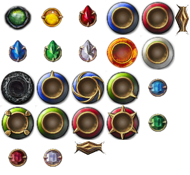
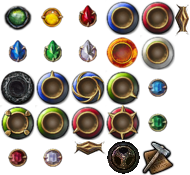
add table of content

Changed region(s): [[0.5526, 0.8, 0.9211, 1.0]]

diff --git a/test.html b/test.html
@@ -106,6 +106,7 @@ function selectLang(lang) {
 </script>
 <!-- Style -->
 <link rel="stylesheet" href="style.css">
+<link rel="icon" type="image/x-icon" href="favicon.ico">
 </head>
 <!-- Body -->
 <body class="dark">
@@ -159,79 +160,86 @@ function selectLang(lang) {
 </div>
 <!-- Display Page -->
 <div class="page" id="page_display">
-<h1 id="notes_header"></h1>
-<div class="section">
-	<div class="filling" id="notesDiv"></div>
-</div>
-<h1 id="gem_header"></h1>
-<div class="section">
-	<div style="width: 100%">
-		<h2 id="group_subheader"></h2>
-		<div id="setupDiv"></div>
+	<h1 id="notes_header"></h1>
+	<div class="section">
+		<div class="filling" id="notesDiv"></div>
 	</div>
-	<div style="max-width: 40%">
-		<h2 id="configuration_subheader"></h2>
-		<div id="gemconfDiv"></div>
-		<h2 id="roadmap_subheader"></h2>
-		<div id="roadmapDiv"></div>
-	</div>
-</div>
-<h1 id="tree_header"></h1>
-<div class="section">
-	<div style="width: 100%">
-		<h2 id="preview_subheader"><h2>
-		<div id="previewDiv"></div>
-	</div>
-	<div style="display: block; max-width: 30%">
-		<div>
-			<h2 id="treelist_subheader"></h2>
-			<div id="treeDiv"></div>
+	<h1 id="gem_header"></h1>
+	<div class="section">
+		<div style="width: 100%">
+			<h2 id="group_subheader"></h2>
+			<div id="setupDiv"></div>
 		</div>
-		<div>
-			<h2 id="ascendancy_subheader"></h2>
-			<div id="ascendancyDiv"></div>
-		</div>
-		<div>
-			<h2 id="mastery_subheader"></h2>
-			<div id="masteryDiv"></div>
-		</div>
-		<div>
-			<h2 id="keystone_subheader"></h2>
-			<div id="keystoneDiv"></div>
+		<div style="max-width: 40%">
+			<h2 id="configuration_subheader"></h2>
+			<div id="gemconfDiv"></div>
+			<h2 id="roadmap_subheader"></h2>
+			<div id="roadmapDiv"></div>
 		</div>
 	</div>
-</div>
+	<h1 id="tree_header"></h1>
+	<div class="section">
+		<div style="width: 100%">
+			<h2 id="preview_subheader"><h2>
+			<div id="previewDiv"></div>
+		</div>
+		<div style="display: block; max-width: 30%">
+			<div>
+				<h2 id="treelist_subheader"></h2>
+				<div id="treeDiv"></div>
+			</div>
+			<div>
+				<h2 id="ascendancy_subheader"></h2>
+				<div id="ascendancyDiv"></div>
+			</div>
+			<div>
+				<h2 id="mastery_subheader"></h2>
+				<div id="masteryDiv"></div>
+			</div>
+			<div>
+				<h2 id="keystone_subheader"></h2>
+				<div id="keystoneDiv"></div>
+			</div>
+		</div>
+	</div>
 <!--h2 id="pantheon">Bandits & Pantheon</h2-->
-<h1 id="item_header"></h1>
-<div class="section">
-	<div class="inventory">
-		<div id="mainHand">&nbsp;</div>
-		<div id="offHand">&nbsp;</div>
-		<div id="chest">&nbsp;</div>
-		<div id="helm">&nbsp;</div>
-		<div id="gloves">&nbsp;</div>
-		<div id="boots">&nbsp;</div>
-		<div id="amulet">&nbsp;</div>
-		<div id="leftRing">&nbsp;</div>
-		<div id="rightRing">&nbsp;</div>
-		<div id="belt">&nbsp;</div>
-		<div class="flask">
-			<div id="flask1">&nbsp;</div>
-			<div id="flask2">&nbsp;</div>
-			<div id="flask3">&nbsp;</div>
-			<div id="flask4">&nbsp;</div>
-			<div id="flask5">&nbsp;</div>
+	<h1 id="item_header"></h1>
+	<div class="section">
+		<div class="inventory">
+			<div id="mainHand">&nbsp;</div>
+			<div id="offHand">&nbsp;</div>
+			<div id="chest">&nbsp;</div>
+			<div id="helm">&nbsp;</div>
+			<div id="gloves">&nbsp;</div>
+			<div id="boots">&nbsp;</div>
+			<div id="amulet">&nbsp;</div>
+			<div id="leftRing">&nbsp;</div>
+			<div id="rightRing">&nbsp;</div>
+			<div id="belt">&nbsp;</div>
+			<div class="flask">
+				<div id="flask1">&nbsp;</div>
+				<div id="flask2">&nbsp;</div>
+				<div id="flask3">&nbsp;</div>
+				<div id="flask4">&nbsp;</div>
+				<div id="flask5">&nbsp;</div>
+			</div>
+		</div>
+		<div>
+			<h2 id="set_subheader"></h2>
+			<div id="invenrotySetDiv"></div>
+		</div>
+		<div>
+			<h2 id="jewel_subheader"></h2>
+			<div id="jewelDiv"></div>
 		</div>
 	</div>
-	<div>
-		<h2 id="set_subheader"></h2>
-		<div id="invenrotySetDiv"></div>
+	<!-- Table of content -->
+	<div class="toc">
+		<a id="toc_notes" href="#notes_header"></a>
+		<a id="toc_gem" href="#gem_header"></a>
+		<a id="toc_tree" href="#tree_header"></a>
+		<a id="toc_item" href="#item_header"></a>
 	</div>
-	<div>
-		<h2 id="jewel_subheader"></h2>
-		<div id="jewelDiv"></div>
-	</div>
-</div>
 </div>
 <!-- Search Page -->
 <div class="page" id="page_search">

diff --git a/style.css b/style.css
@@ -360,6 +360,35 @@ ul li:hover > button > .arrow {
   margin-top: 4px;
 }
 
+.toc {
+	background: var(--nav-bg);
+	position: fixed;
+	top: 30vh;
+	display: block;
+	float: left;
+	height: 140px;
+	align-items: center;
+}
+.toc > a {
+	display: block;
+	width: 35px;
+    height: 35px;
+}
+#toc_notes {
+	background: url(./favicon.ico) no-repeat;
+}
+#toc_gem {
+	background: url(./socket.png) no-repeat;
+    background-position: -70px -35px;
+}
+#toc_tree {
+	background: url(./socket.png) no-repeat;
+    background-position: -105px -140px;
+}
+#toc_item {
+	background: url(./socket.png) no-repeat;
+    background-position: -140px -140px;
+}
 /* Custom select */
 
 select {
